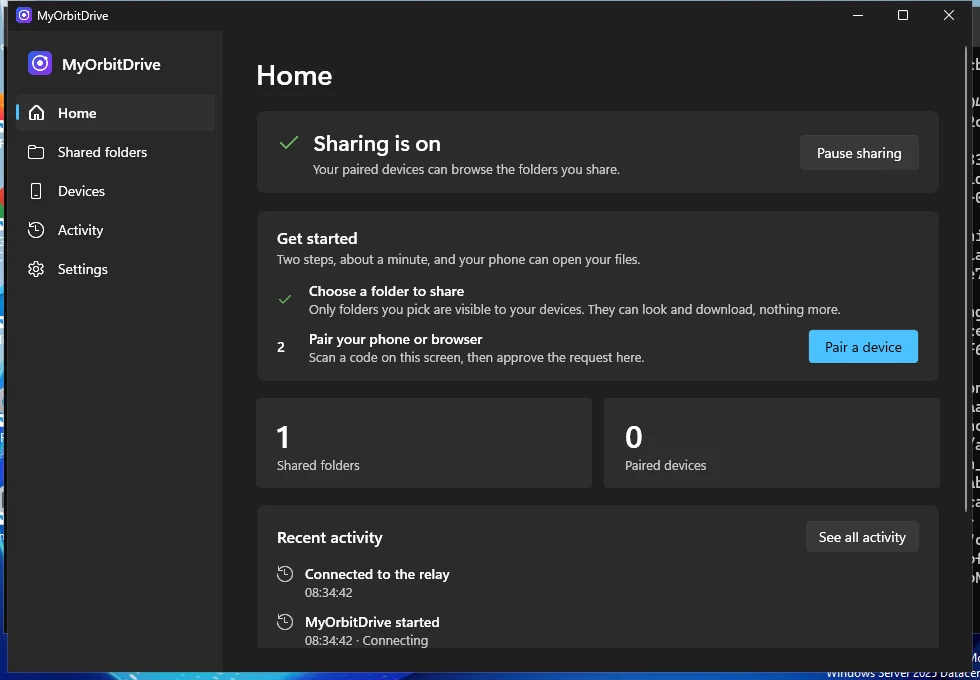
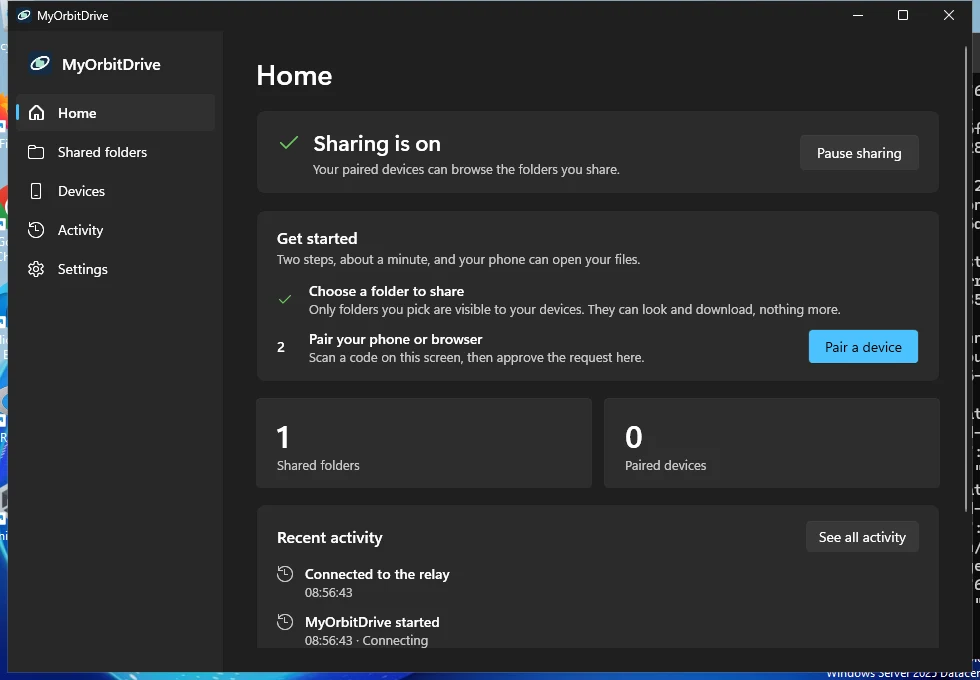
Site: Windows captures showing the new mark
Claude-Session: https://claude.ai/code/session_01L77RmbDbewdtMg1oMJKzea

diff --git a/docs/branding/SITE_NOTES.md b/docs/branding/SITE_NOTES.md
@@ -10,7 +10,7 @@ Header with mobile menu; hero (headline, two actions, real screen); three-step f
 
 Honest limits:
 - Phone shots are a **phone-sized desktop-Chrome viewport, not a physical phone**, and the page says so.
-- Windows app shots (4) are real captures of the renamed console from the CI Windows runner (commit 6b98c4a, `desktop-ui` run; extracted from the job log), 980x680 at 1x, with test data. Several other CI frames show a leftover "Share an entire drive" test dialog, so only dialog-free frames were used. Higher-resolution, curated Windows captures need the Windows UI-automation run extended or the owner's PC.
+- Windows app shots (4) are real captures of the renamed console from the CI Windows runner (commit ee03f2b with the new mark, `desktop-ui` run; extracted from the job log), 980x680 at 1x, with test data. Several other CI frames show a leftover "Share an entire drive" test dialog, so only dialog-free frames were used. Higher-resolution, curated Windows captures need the Windows UI-automation run extended or the owner's PC.
 - Picture thumbnails are not shown in icon view because the Linux capture agent has no Windows Shell thumbnailer; a Windows capture would show them.
 - Not captured: the Inbox with a waiting file, the Explorer "Send to my phone" context menu (needs real Windows 11 Explorer), the QR code screen, real devices. Storyboard items still open: 16-item list items for Inbox, Devices, Properties, QR and Windows-side flows.
 
